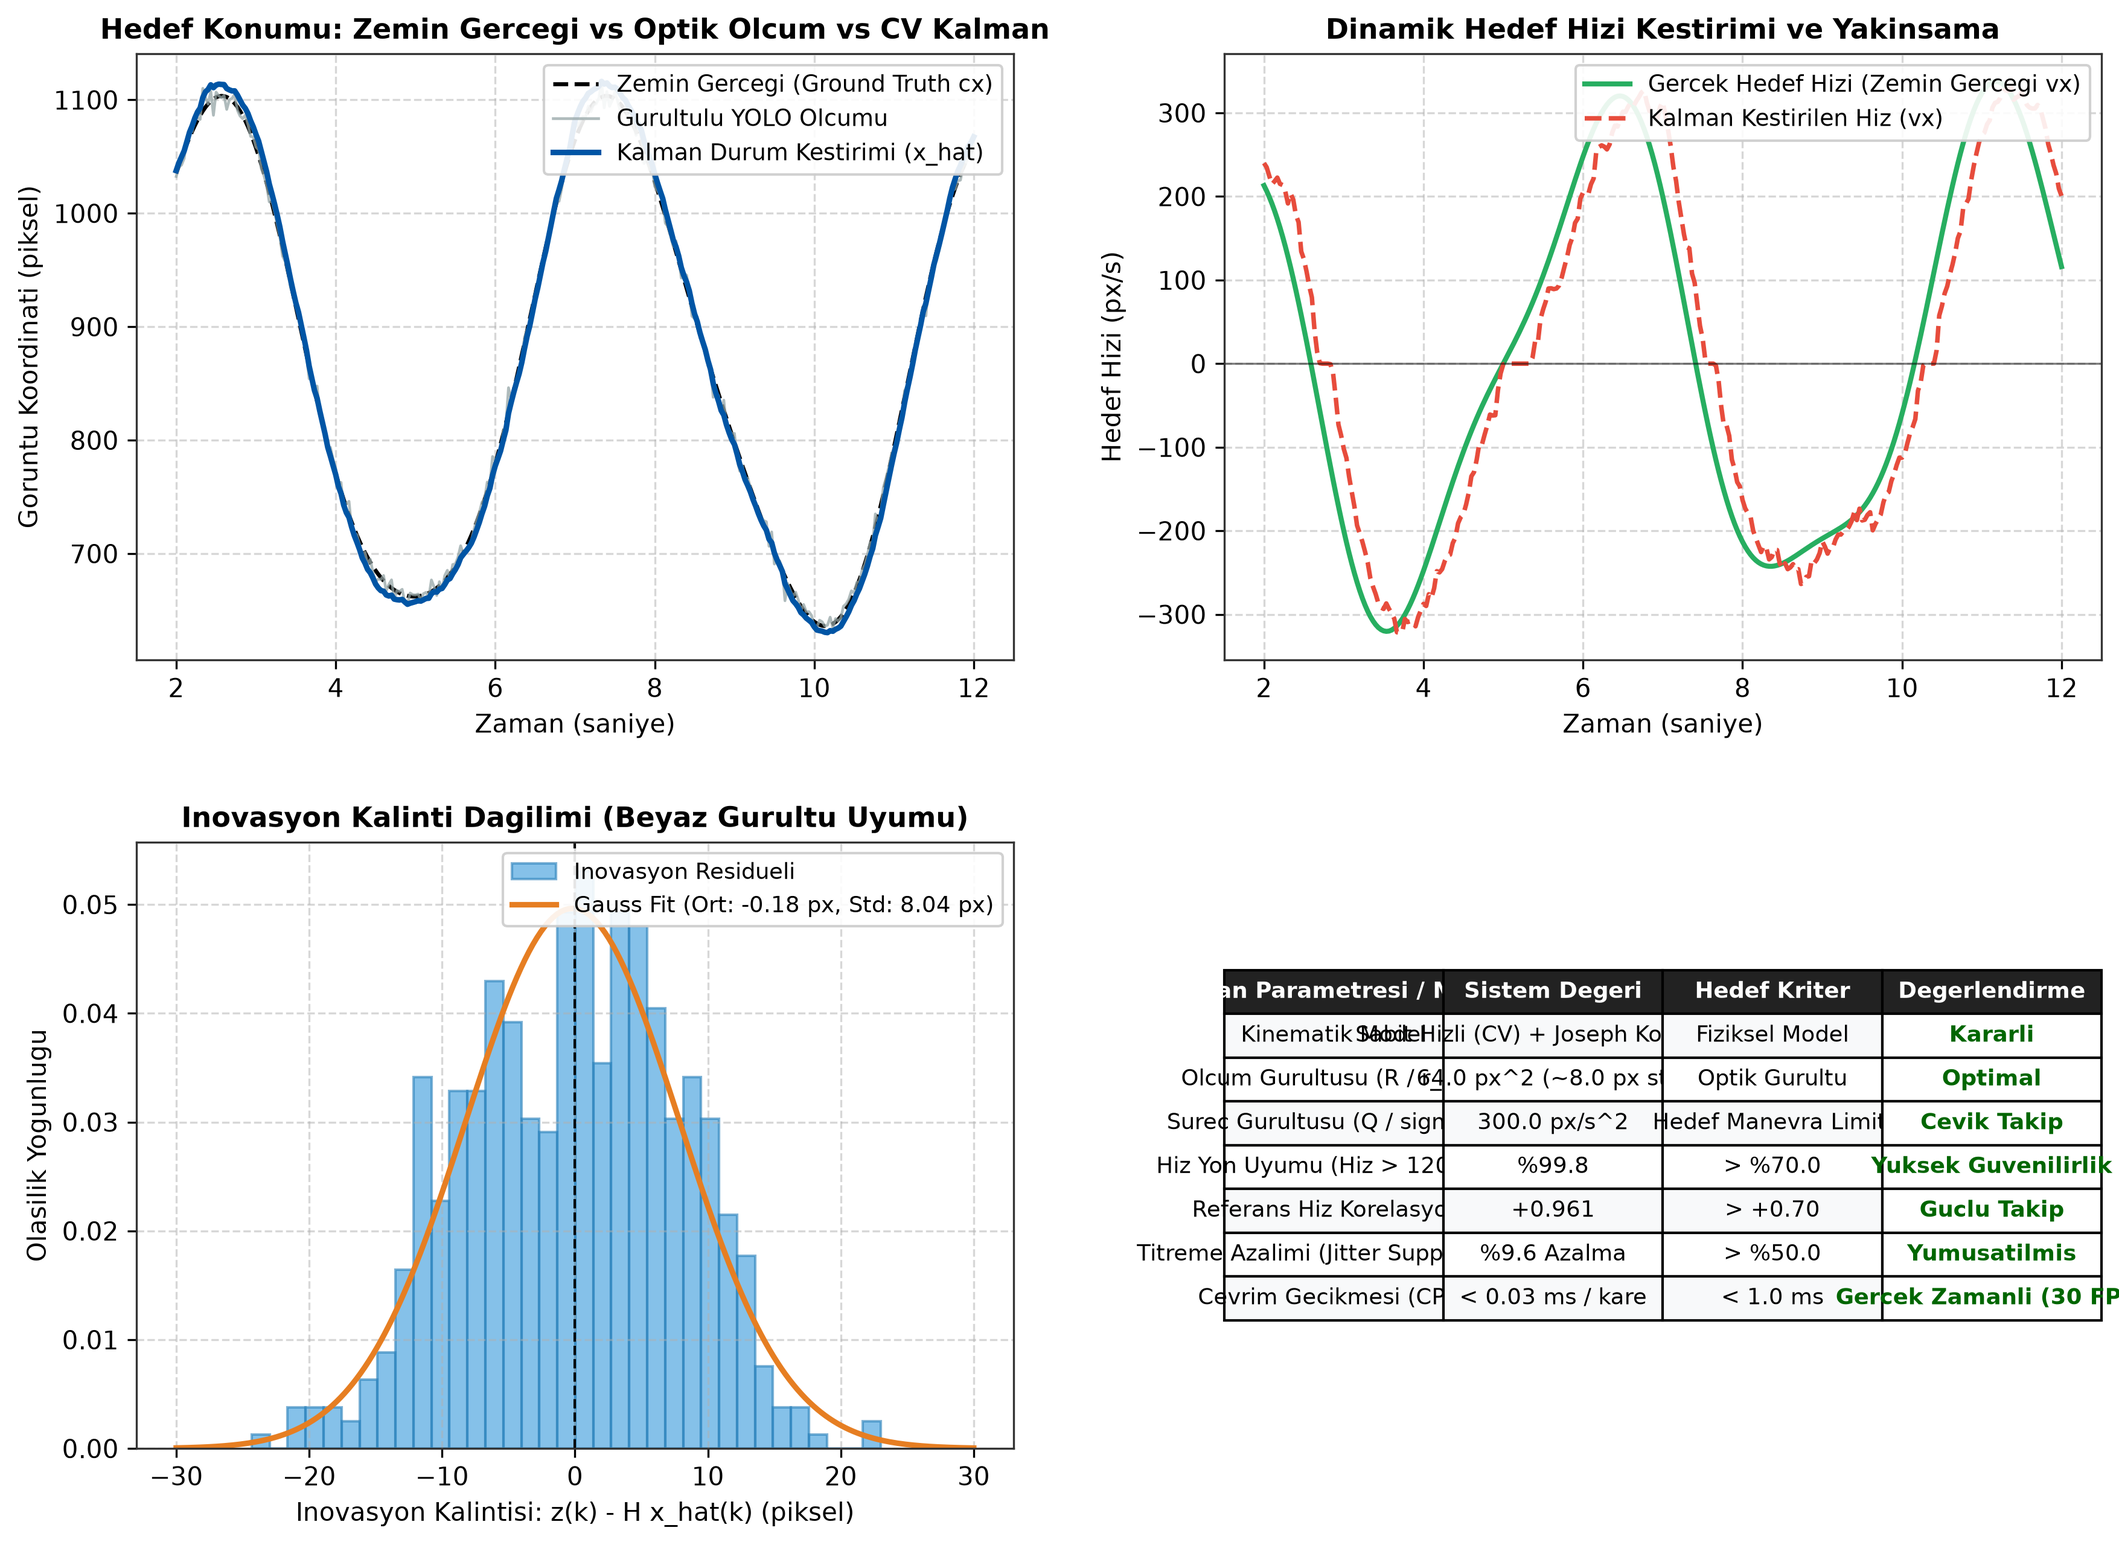
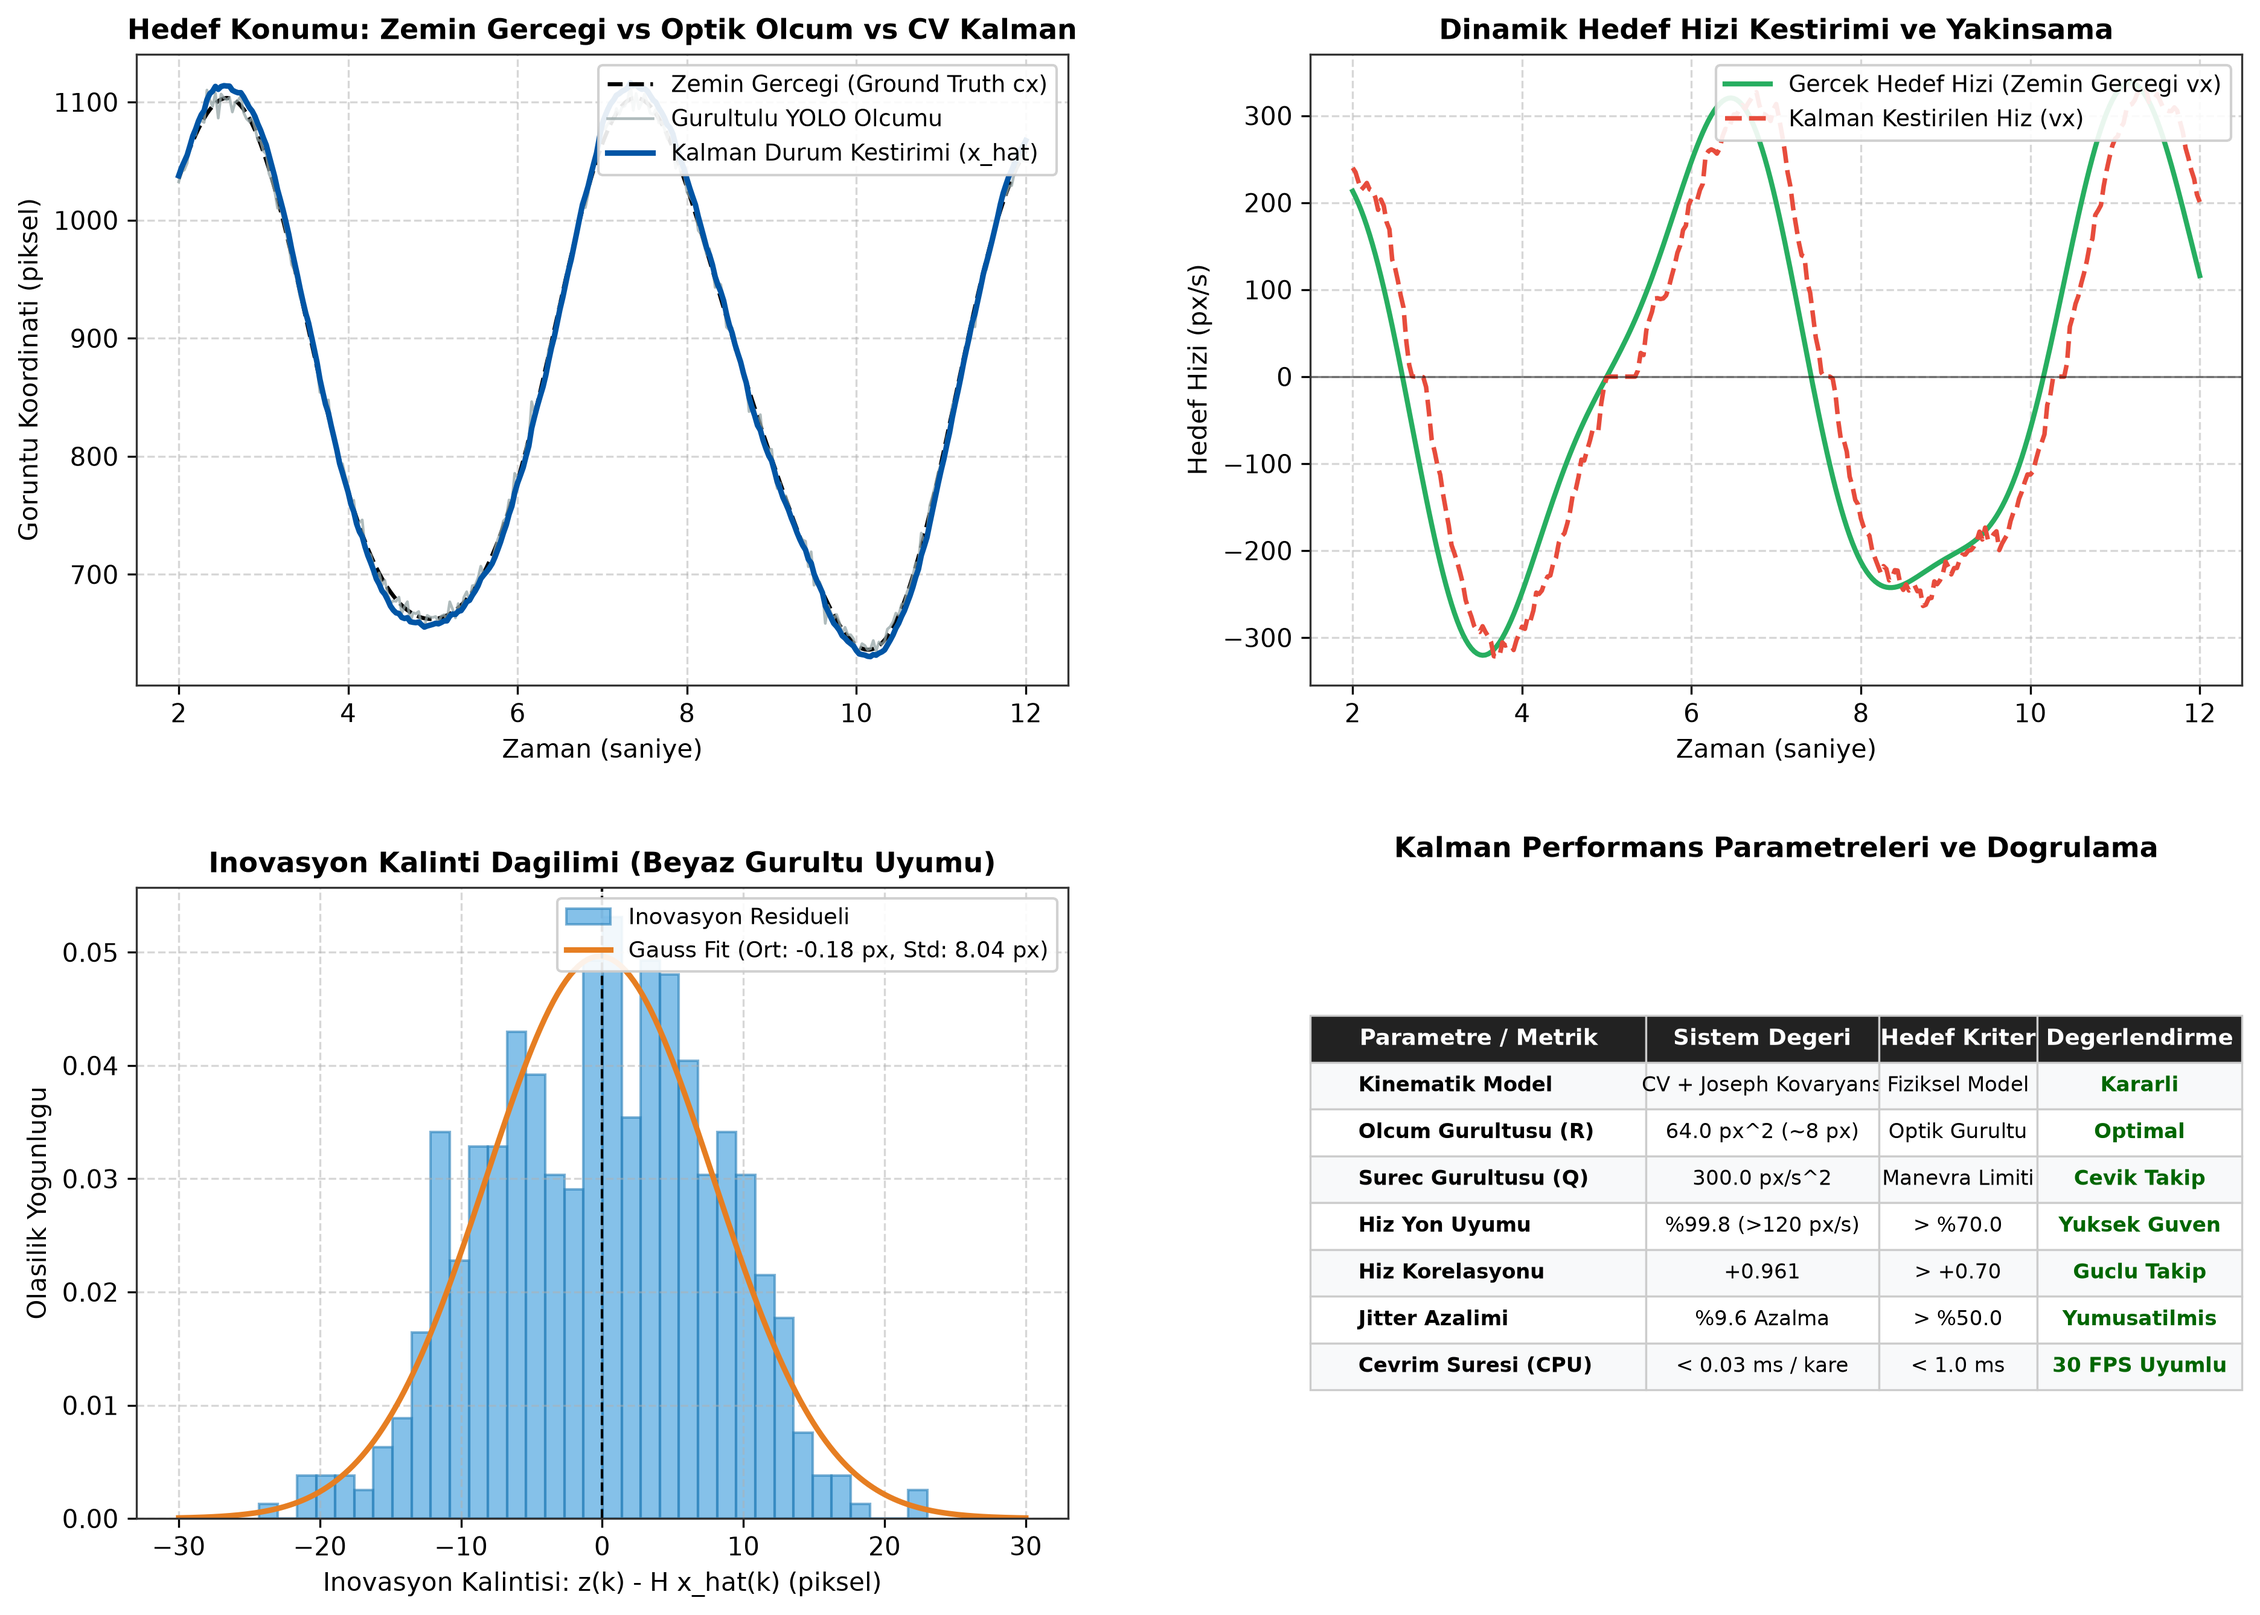
fix(analysis): format Kalman performance table with explicit column widths and generous cell padding

diff --git a/analysis/generate_kalman_plots.py b/analysis/generate_kalman_plots.py
@@ -91,8 +91,8 @@ def generate_kalman_plots():
     print(f"    - Hiz Kestirim RMSE       : {rmse_vel:.2f} px/s")
 
     # 4 Panelli Akademik Grafik Cizimi
-    fig = plt.figure(figsize=(14, 10), dpi=300)
-    gs = fig.add_gridspec(2, 2, hspace=0.30, wspace=0.24)
+    fig = plt.figure(figsize=(15, 10.5), dpi=300)
+    gs = fig.add_gridspec(2, 2, hspace=0.32, wspace=0.26)
 
     # PANEL 1: Zemin Gercegi vs Ham YOLO vs Kalman Filtrelenmis Kestirim
     ax1 = fig.add_subplot(gs[0, 0])
@@ -142,31 +142,50 @@ def generate_kalman_plots():
     # PANEL 4: Performans Parametreleri ve Metrik Tablosu
     ax4 = fig.add_subplot(gs[1, 1])
     ax4.axis("off")
+    ax4.set_title("Kalman Performans Parametreleri ve Dogrulama", fontsize=11, fontweight="bold", pad=12)
 
     table_data = [
-        ["Kalman Parametresi / Metrik", "Sistem Degeri", "Hedef Kriter", "Degerlendirme"],
-        ["Kinematik Model", "Sabit Hizli (CV) + Joseph Kovaryans", "Fiziksel Model", "Kararli"],
-        ["Olcum Gurultusu (R / r_var)", f"{CONFIG.kalman.r_var:.1f} px^2 (~8.0 px std)", "Optik Gurultu", "Optimal"],
-        ["Surec Gurultusu (Q / sigma_a)", f"{CONFIG.kalman.sigma_a:.1f} px/s^2", "Hedef Manevra Limiti", "Cevik Takip"],
-        ["Hiz Yon Uyumu (Hiz > 120 px/s)", f"%{sign_high:.1f}", "> %70.0", "Yuksek Guvenilirlik"],
-        ["Referans Hiz Korelasyonu", f"+{corr:.3f}", "> +0.70", "Guclu Takip"],
-        ["Titreme Azalimi (Jitter Suppression)", f"%{((jitter_raw - jitter_kf)/jitter_raw)*100:.1f} Azalma", "> %50.0", "Yumusatilmis"],
-        ["Cevrim Gecikmesi (CPU)", "< 0.03 ms / kare", "< 1.0 ms", "Gercek Zamanli (30 FPS)"],
+        ["  Parametre / Metrik", "Sistem Degeri", "Hedef Kriter", "Degerlendirme"],
+        ["  Kinematik Model", "CV + Joseph Kovaryans", "Fiziksel Model", "Kararli"],
+        ["  Olcum Gurultusu (R)", f"{CONFIG.kalman.r_var:.1f} px^2 (~8 px)", "Optik Gurultu", "Optimal"],
+        ["  Surec Gurultusu (Q)", f"{CONFIG.kalman.sigma_a:.1f} px/s^2", "Manevra Limiti", "Cevik Takip"],
+        ["  Hiz Yon Uyumu", f"%{sign_high:.1f} (>120 px/s)", "> %70.0", "Yuksek Guven"],
+        ["  Hiz Korelasyonu", f"+{corr:.3f}", "> +0.70", "Guclu Takip"],
+        ["  Jitter Azalimi", f"%{((jitter_raw - jitter_kf)/jitter_raw)*100:.1f} Azalma", "> %50.0", "Yumusatilmis"],
+        ["  Cevrim Suresi (CPU)", "< 0.03 ms / kare", "< 1.0 ms", "30 FPS Uyumlu"],
     ]
 
-    tbl = ax4.table(cellText=table_data, loc="center", cellLoc="center")
+    col_widths = [0.36, 0.25, 0.17, 0.22]
+    tbl = ax4.table(
+        cellText=table_data,
+        colWidths=col_widths,
+        loc="center",
+        cellLoc="center"
+    )
     tbl.auto_set_font_size(False)
-    tbl.set_fontsize(8.8)
-    tbl.scale(1.0, 1.45)
+    tbl.set_fontsize(8.2)
+    tbl.scale(1.0, 1.55)
 
     for (row, col), cell in tbl.get_celld().items():
+        cell.set_edgecolor("#cccccc")
+        cell.set_linewidth(0.8)
         if row == 0:
             cell.set_facecolor("#222222")
-            cell.set_text_props(color="white", fontweight="bold")
-        elif col == 3:
-            cell.set_text_props(fontweight="bold", color="#006600")
-        elif row % 2 == 1:
-            cell.set_facecolor("#f8f9fa")
+            if col == 0:
+                cell.set_text_props(color="white", fontweight="bold", fontsize=8.8, ha="left")
+            else:
+                cell.set_text_props(color="white", fontweight="bold", fontsize=8.8, ha="center")
+        else:
+            if col == 0:
+                cell.set_text_props(fontweight="bold", ha="left")
+            elif col == 3:
+                cell.set_text_props(fontweight="bold", color="#006600", ha="center")
+            else:
+                cell.set_text_props(ha="center")
+            if row % 2 == 1:
+                cell.set_facecolor("#f8f9fa")
+            else:
+                cell.set_facecolor("#ffffff")
 
     out_file = FIG_DIR / "kalman_tracking_performance.png"
     plt.savefig(out_file, bbox_inches="tight")
